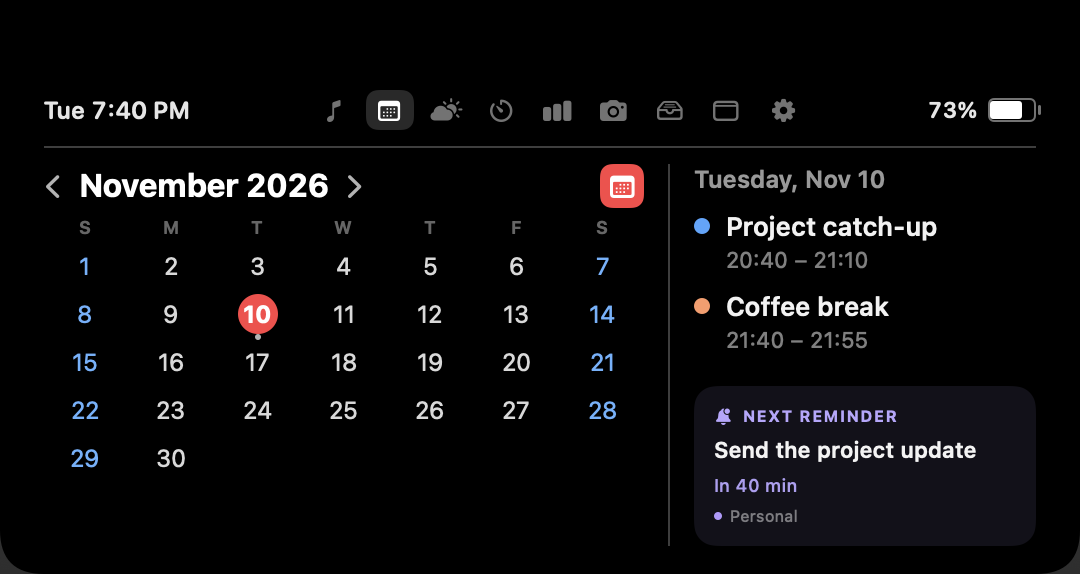
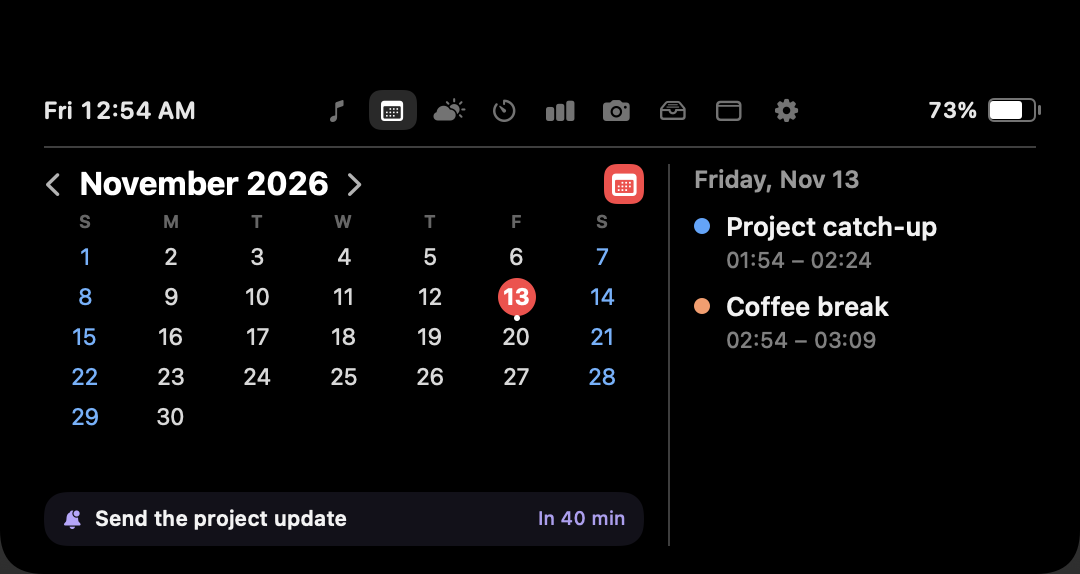
Update README and screenshots for the reminder strip and new Preferences

diff --git a/README.md b/README.md
@@ -15,9 +15,10 @@ Resume and the overview comes back, with artwork, playback controls, a seek bar
 and an audio output menu. Spotify playback is supported too.
 
 Calendar puts a month grid beside the selected day's events. Each visit starts
-on today. A small reminder card below the events shows your next dated task.
-If nothing is upcoming, it shows the most recently overdue reminder. Click the
-card to open Apple Reminders. NotchNest never completes or edits reminders.
+on today. A one-line reminder strip under the grid shows your next dated task
+and when it is due. If nothing is upcoming, it shows the most recently overdue
+reminder. Click it to open Apple Reminders. NotchNest never completes or edits
+reminders.
 
 The other tabs cover a few everyday jobs.
 
@@ -30,7 +31,8 @@ The other tabs cover a few everyday jobs.
 - Mirror opens a front-camera preview and stops the camera when you leave.
 
 The collapsed notch can show a meeting countdown, music, charging status or an
-active download indicator. Small popups handle AirPods connections and battery
+active download indicator. All-day events and deadlines stored as midnight
+entries do not trigger the countdown. Small popups handle AirPods connections and battery
 warnings. Focus changes and Caps Lock get brief popups too. Volume and brightness
 keys use notch controls in place of the macOS HUD.
 
@@ -43,8 +45,10 @@ and a matching Apple provisioning profile. Enable Share Focus Status for the mod
 says "Focus" because Apple reports whether notifications are silenced, not the
 name of the active mode. macOS may still display its own Focus banner.
 
-Open the gear button to choose tabs, set quiet hours or enable launch at login.
-You can turn off the reminder card there too.
+Open the gear button for Preferences, grouped into General, Tabs and Notch.
+Click a tab to show or hide it, or drag tabs to change their order in the notch.
+You can also hide Codex or Claude in the AI Usage tab, set quiet hours, turn off
+the reminder strip or enable launch at login.
 
 The menu-bar button beside the gear opens a drawer of menu-bar apps. Press
 Control-Option-M to open it without reaching a menu-bar icon, then click an app
@@ -67,7 +71,7 @@ events, reminder and usage figures are examples, not personal account data.
 
 | Calendar and reminders | Hourly weather |
 | --- | --- |
-| <img src="docs/screenshots/calendar.png" alt="Month calendar with two events and a next reminder card" width="480"> | <img src="docs/screenshots/weather.png" alt="State College weather with hourly temperatures and rain chances" width="480"> |
+| <img src="docs/screenshots/calendar.png" alt="Month calendar with a next reminder strip under the grid and two events beside it" width="480"> | <img src="docs/screenshots/weather.png" alt="State College weather with hourly temperatures and rain chances" width="480"> |
 
 | Timer | Codex weekly allowance |
 | --- | --- |
@@ -149,8 +153,8 @@ You can review them in System Settings under Privacy & Security.
 | Downloads folder | Detect unfinished downloads and show a completion notice. |
 
 macOS labels Reminders permission as full access. NotchNest uses it only to read
-the title, due date and list details for the card. Reminder fetching stops when
-the card is hidden. Codex also stops refreshing when its tab is closed and uses
+the title, due date and list details for the strip. Reminder fetching stops when
+the strip is hidden. Codex also stops refreshing when its tab is closed and uses
 your existing sign-in. It does not start model tasks or redeem reset credits.
 Claude has its own app-local WebKit sign-in. NotchNest does not import cookies or
 credentials from Claude Desktop or your browser. It releases the hidden web page
@@ -167,7 +171,7 @@ MacBook display restores it. Timers and stashed files stay in memory while hidde
 
 - Weather is hardcoded to State College, Pennsylvania, and comes from Open-Meteo.
   There is no location picker or Apple Weather integration.
-- Reminders need a due date. Undated tasks do not appear in the card.
+- Reminders need a due date. Undated tasks do not appear in the strip.
 - The download indicator detects temporary browser files. It does not estimate
   percentage complete or time remaining.
 - Bluetooth battery details depend on what macOS reports for the device.
